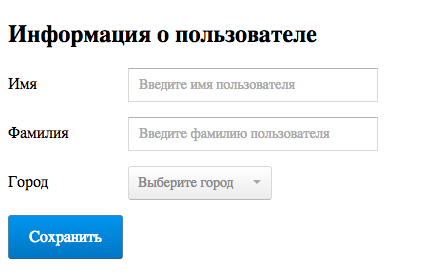
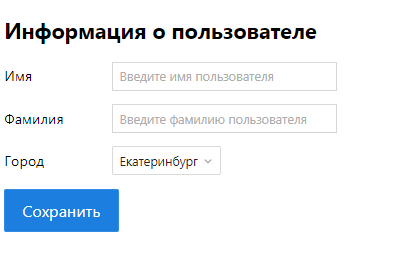
updated screenshots in user profile task

diff --git a/index.html b/index.html
@@ -20,7 +20,7 @@
 		.fragment-container {
 			position: relative;
 		}
-		
+
 		.fragment-container .fragment {
 			position: absolute;
 			top: 0px;
@@ -33,7 +33,7 @@
           display: block;
         }
     </style>
-	
+
 	<title>React</title>
 </head>
 <body>
@@ -123,7 +123,7 @@ function ButtonWithHandle() {
     function handleClick() {
 	    ...
 	}
-	
+
 	return <input type="button" onClick={handleClick}/>
 }
 ```
@@ -160,9 +160,22 @@ React решает одну проблему и делает это хорошо
 
 ### Вставка React на страницу
 
-<pre><code class="lang-html hljs">&lt;div id="app"&gt;&lt;/div&gt;</code></pre>
-
 ```js
+//index.html
+<div id="app"></div>
+```
+
+**Способ 18+**
+```js
+//index.tsx
+const domNode = document.getElementById('app') as HTMLElement;
+const root = createRoot(domNode);
+root.render(
+<div className="fromReact"></div>);
+```
+**Старый вариант**
+```js
+//index.tsx
 ReactDom.render(
   <div className="fromReact"></div>,
   document.getElementById('app')
@@ -396,13 +409,13 @@ _reactDom2.default.render(mydom, document.getElementById('app'));
                 },
                 "_owner": null,
                 "_store": {
-                  
+
                 }
               }
             },
             "_owner": null,
             "_store": {
-              
+
             }
           },
           {
@@ -416,20 +429,20 @@ _reactDom2.default.render(mydom, document.getElementById('app'));
             },
             "_owner": null,
             "_store": {
-              
+
             }
           }
         ]
       },
       "_owner": null,
       "_store": {
-        
+
       }
     }
   },
   "_owner": null,
   "_store": {
-    
+
   }
 }
 ```
@@ -538,7 +551,7 @@ The user is <b>{isLoggedIn ? 'currently' : 'not'}</b> logged in.
 ```
 
 **&&**
-```js  
+```js
 {unreadMessages.length > 0 &&
   <h2>You have {unreadMessages.length} unread messages.</h2>}
 ```
@@ -702,7 +715,7 @@ class MyComponent extends React.Component<Props> {
   constructor(props: Props) {
     super(props);
   }
-  
+
   render() {
     // Деструктурирующее присваивание
     const { a, b } = this.props;
@@ -964,7 +977,7 @@ render () {
 // После render ссылка окажется в this.myRef.current
 ```
 
-** Хороший проверенный способ **
+** Старый способ **
 ```js
 myRef: HTMLDivElement | null
 
@@ -983,13 +996,13 @@ render () {
 ### Можно повешать на элемент или компонент
 
 ```js
-<input ref={this.myRef} />
+<input ref={this.myRef} /> // this.myRef = HTMLInputElement
 
 ```
 
 
 ```js
-<MyComponent ref={this.myRef} />
+<MyComponent ref={this.myRef} /> // this.myRef = MyComponent
 
 ```
 
@@ -1222,7 +1235,7 @@ function MyFunctionalComponent() {
 
     return (
         <>
-            [1, 2, 3, 4, 5].map(value => 
+            [1, 2, 3, 4, 5].map(value =>
               (<button onClick={logClick}>Кнопка №{value}</button>)
             )
         </>
@@ -1390,7 +1403,7 @@ class Parent extends React.Component {
   - Child получает новые свойства
   - Child render
     - ...
-	
+
 *Но возможны варианты!*
 
 ***
@@ -1683,7 +1696,7 @@ function enhance(WrappedComponent) {
         const {forwardedRef, ...rest} = this.props;
         return <WrappedComponent ref={forwardedRef} {...rest} />
       }
-  }  
+  }
   // React не передает значение атрибута "ref" в props обычных компонентов.
   // Но компонент React.forwardRef дает нам доступ к значению атрибута "ref"
   // и теперь это значение можно передать компоненту под другим именем.
@@ -1805,7 +1818,7 @@ function useMyOwnHook(initialValue) {
 ```js
 const CakeContext = React.createContext();
 ```
-  
+
 Поставка значения:
 ```html
 <CakeContext.Provider value={cheeseCake}>
@@ -1865,7 +1878,7 @@ function Glutton() {
 <a href="http://bit.ly/kontur-courses-feedback">http://bit.ly/kontur-courses-feedback</a>
 
 </script></section>
-			
+
 </div></div>
 </body>
 </html>

diff --git a/userProfile/solved/src/Form.tsx b/userProfile/solved/src/Form.tsx
@@ -50,6 +50,7 @@ export default class Form extends React.Component<{}, FormState> {
                             placeholder="Введите имя пользователя"
                             value={name}
                             onValueChange={this.onChange('name')}
+                            width={250}
                         />
                     </label>
                     <label>
@@ -58,6 +59,7 @@ export default class Form extends React.Component<{}, FormState> {
                             placeholder="Введите фамилию пользователя"
                             value={surname}
                             onValueChange={this.onChange('surname')}
+                            width={250}
                         />
                     </label>
                     <label>
@@ -83,10 +85,13 @@ export default class Form extends React.Component<{}, FormState> {
         return (
             <Modal onClose={this.closeModal}>
                 <Modal.Header>Пользователь сохранен</Modal.Header>
-                <Modal.Body>
-                    <p>Измененные данные:</p>
-                    {isNothingChanged ? 'ничего' : this.renderChanges()}
-                </Modal.Body>
+                {isNothingChanged ? null : (
+                    <Modal.Body>
+                        <p>Измененные данные:</p>
+                        {this.renderChanges()}
+                    </Modal.Body>
+                )}
+
                 <Modal.Footer>
                     <Button onClick={this.closeModal}>Закрыть</Button>
                 </Modal.Footer>

diff --git a/userProfile/solved/src/index.tsx b/userProfile/solved/src/index.tsx
@@ -1,5 +1,5 @@
 import React from 'react';
-import ReactDom from 'react-dom';
+import { createRoot } from 'react-dom/client';
 import Form from './Form';
 import './style.css';
 
@@ -37,4 +37,6 @@ import './style.css';
  *  дублирования.
  */
 
-ReactDom.render(<Form />, document.getElementById('react'));
+const domNode = document.getElementById('app') as HTMLElement;
+const root = createRoot(domNode);
+root.render(<Form />);

diff --git a/userProfile/index.html b/userProfile/index.html
@@ -5,7 +5,7 @@
     <title>React Interface</title>
 </head>
 <body>
- <p>Hi! I don't have React. Yet</p>
+ <div id="app"></div>
  <script src="build/index.js"></script>
 </body>
 </html>
